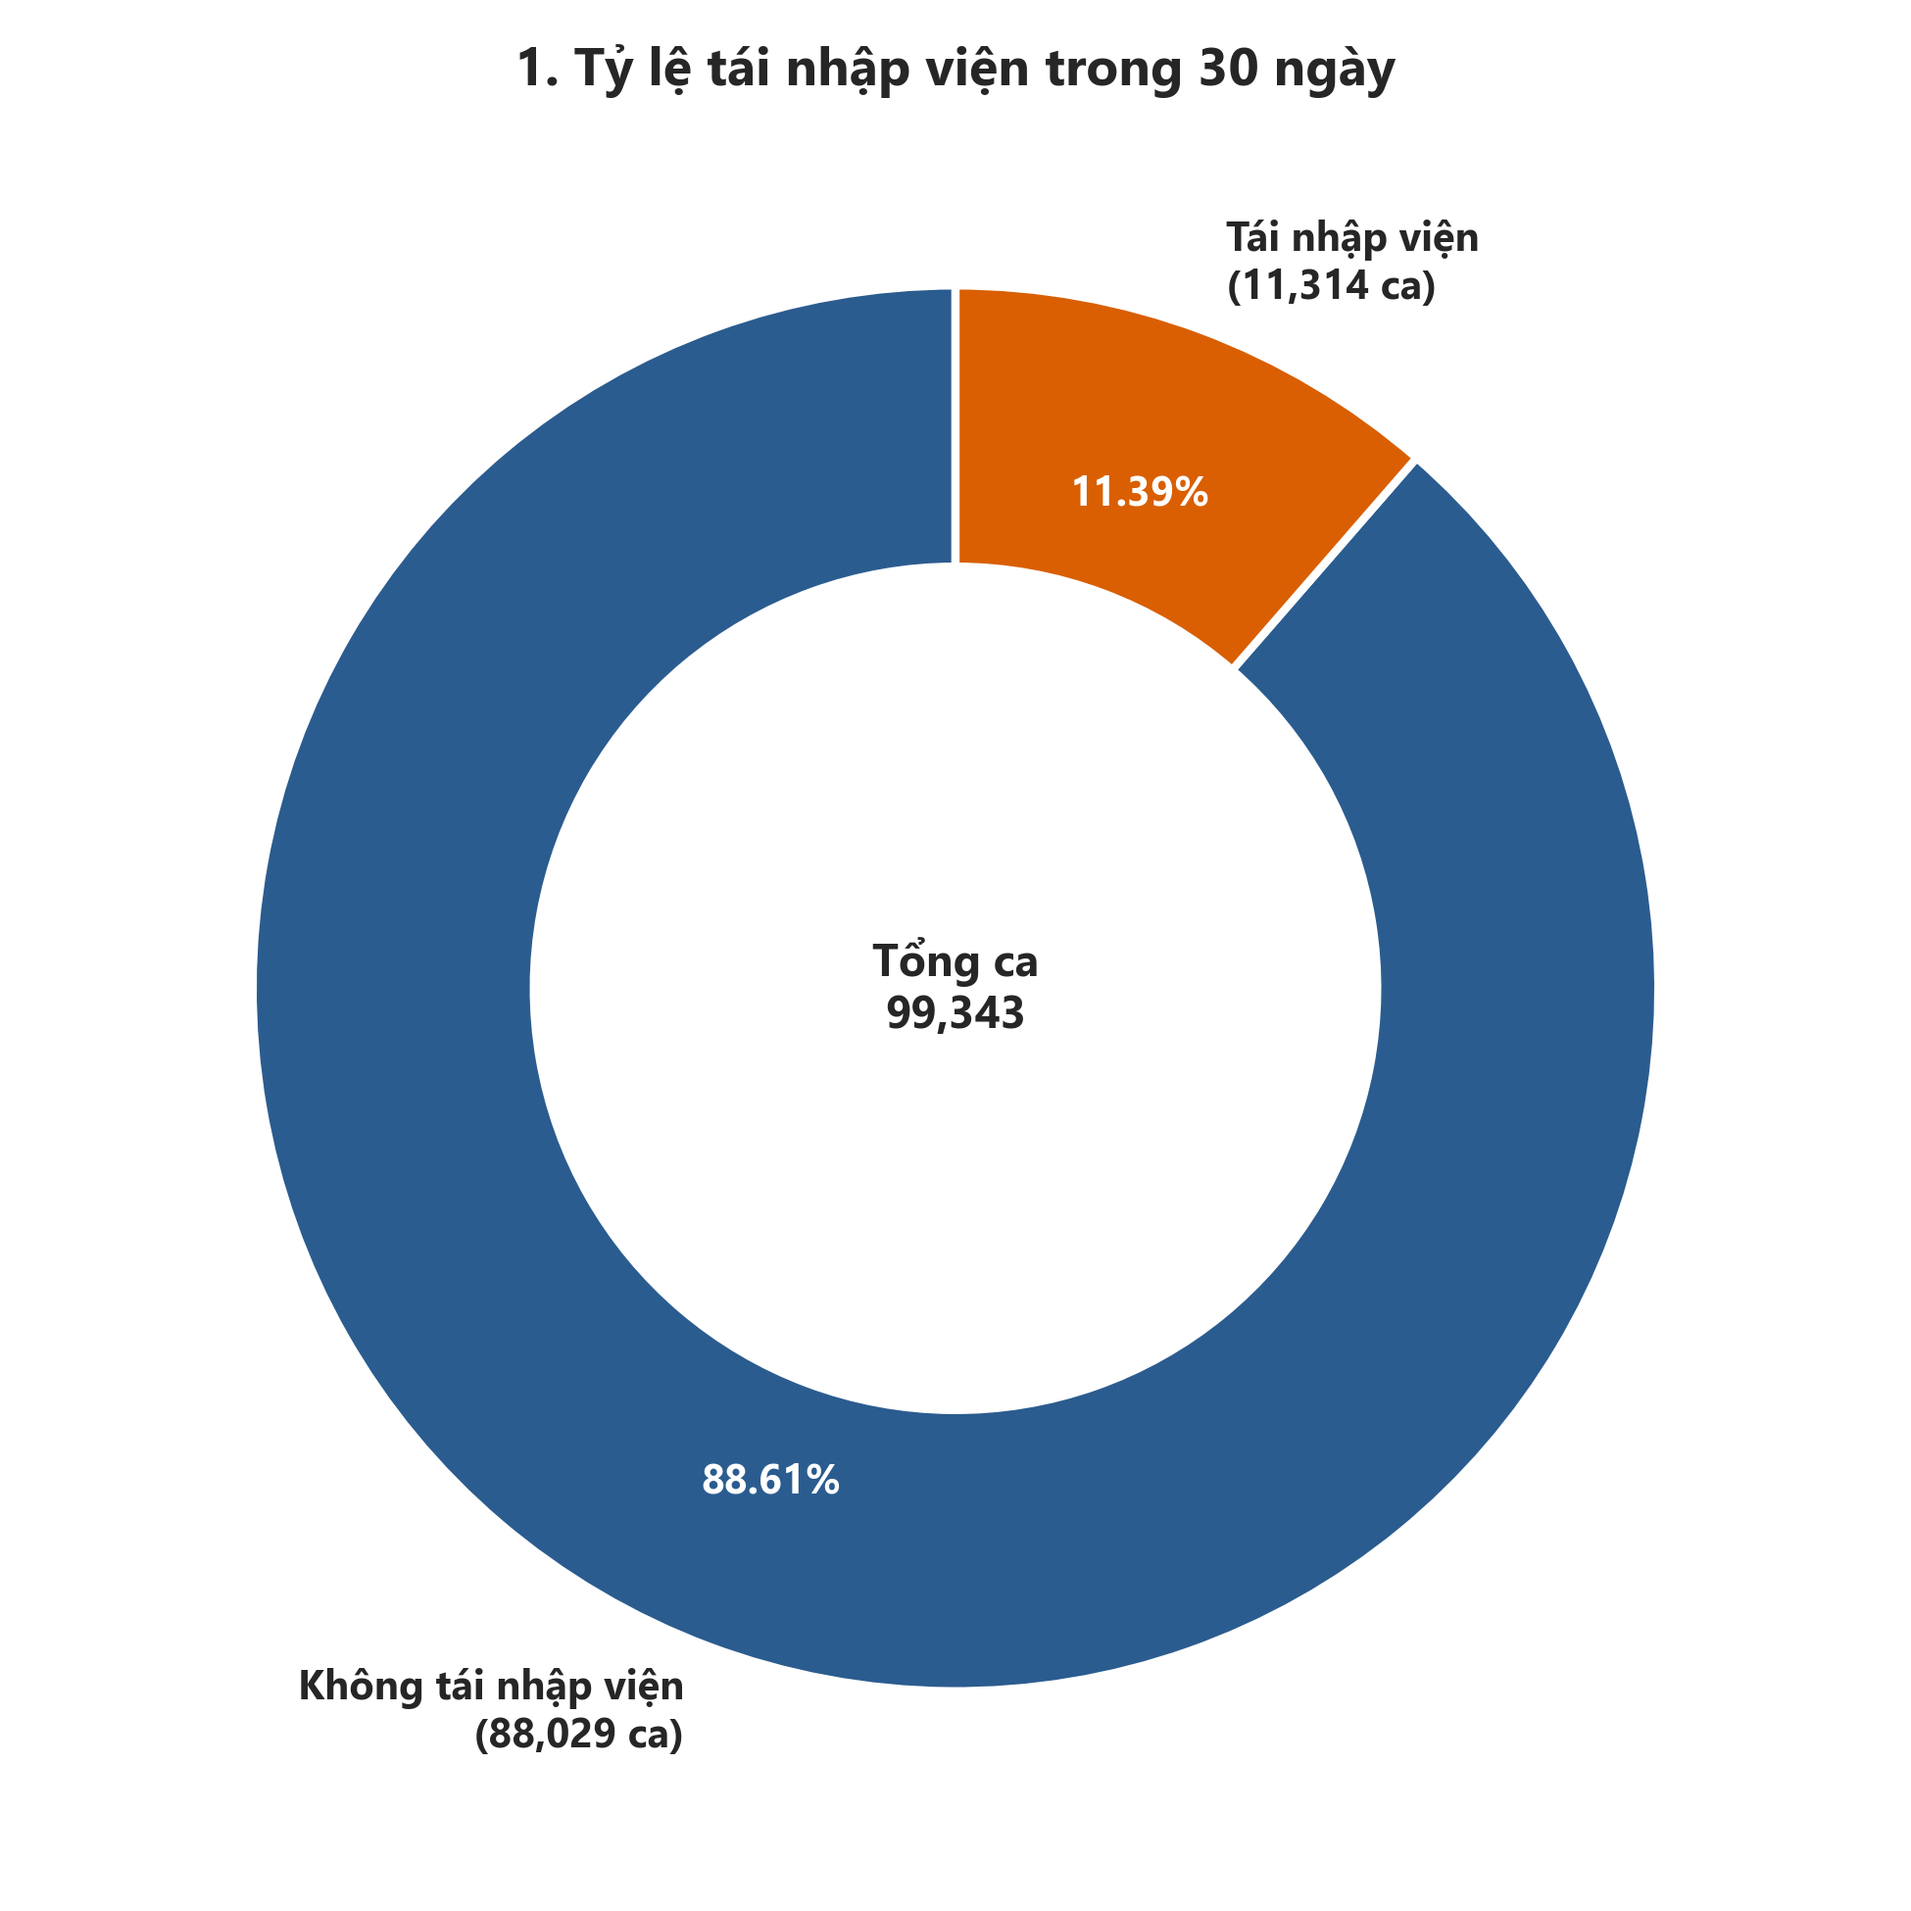
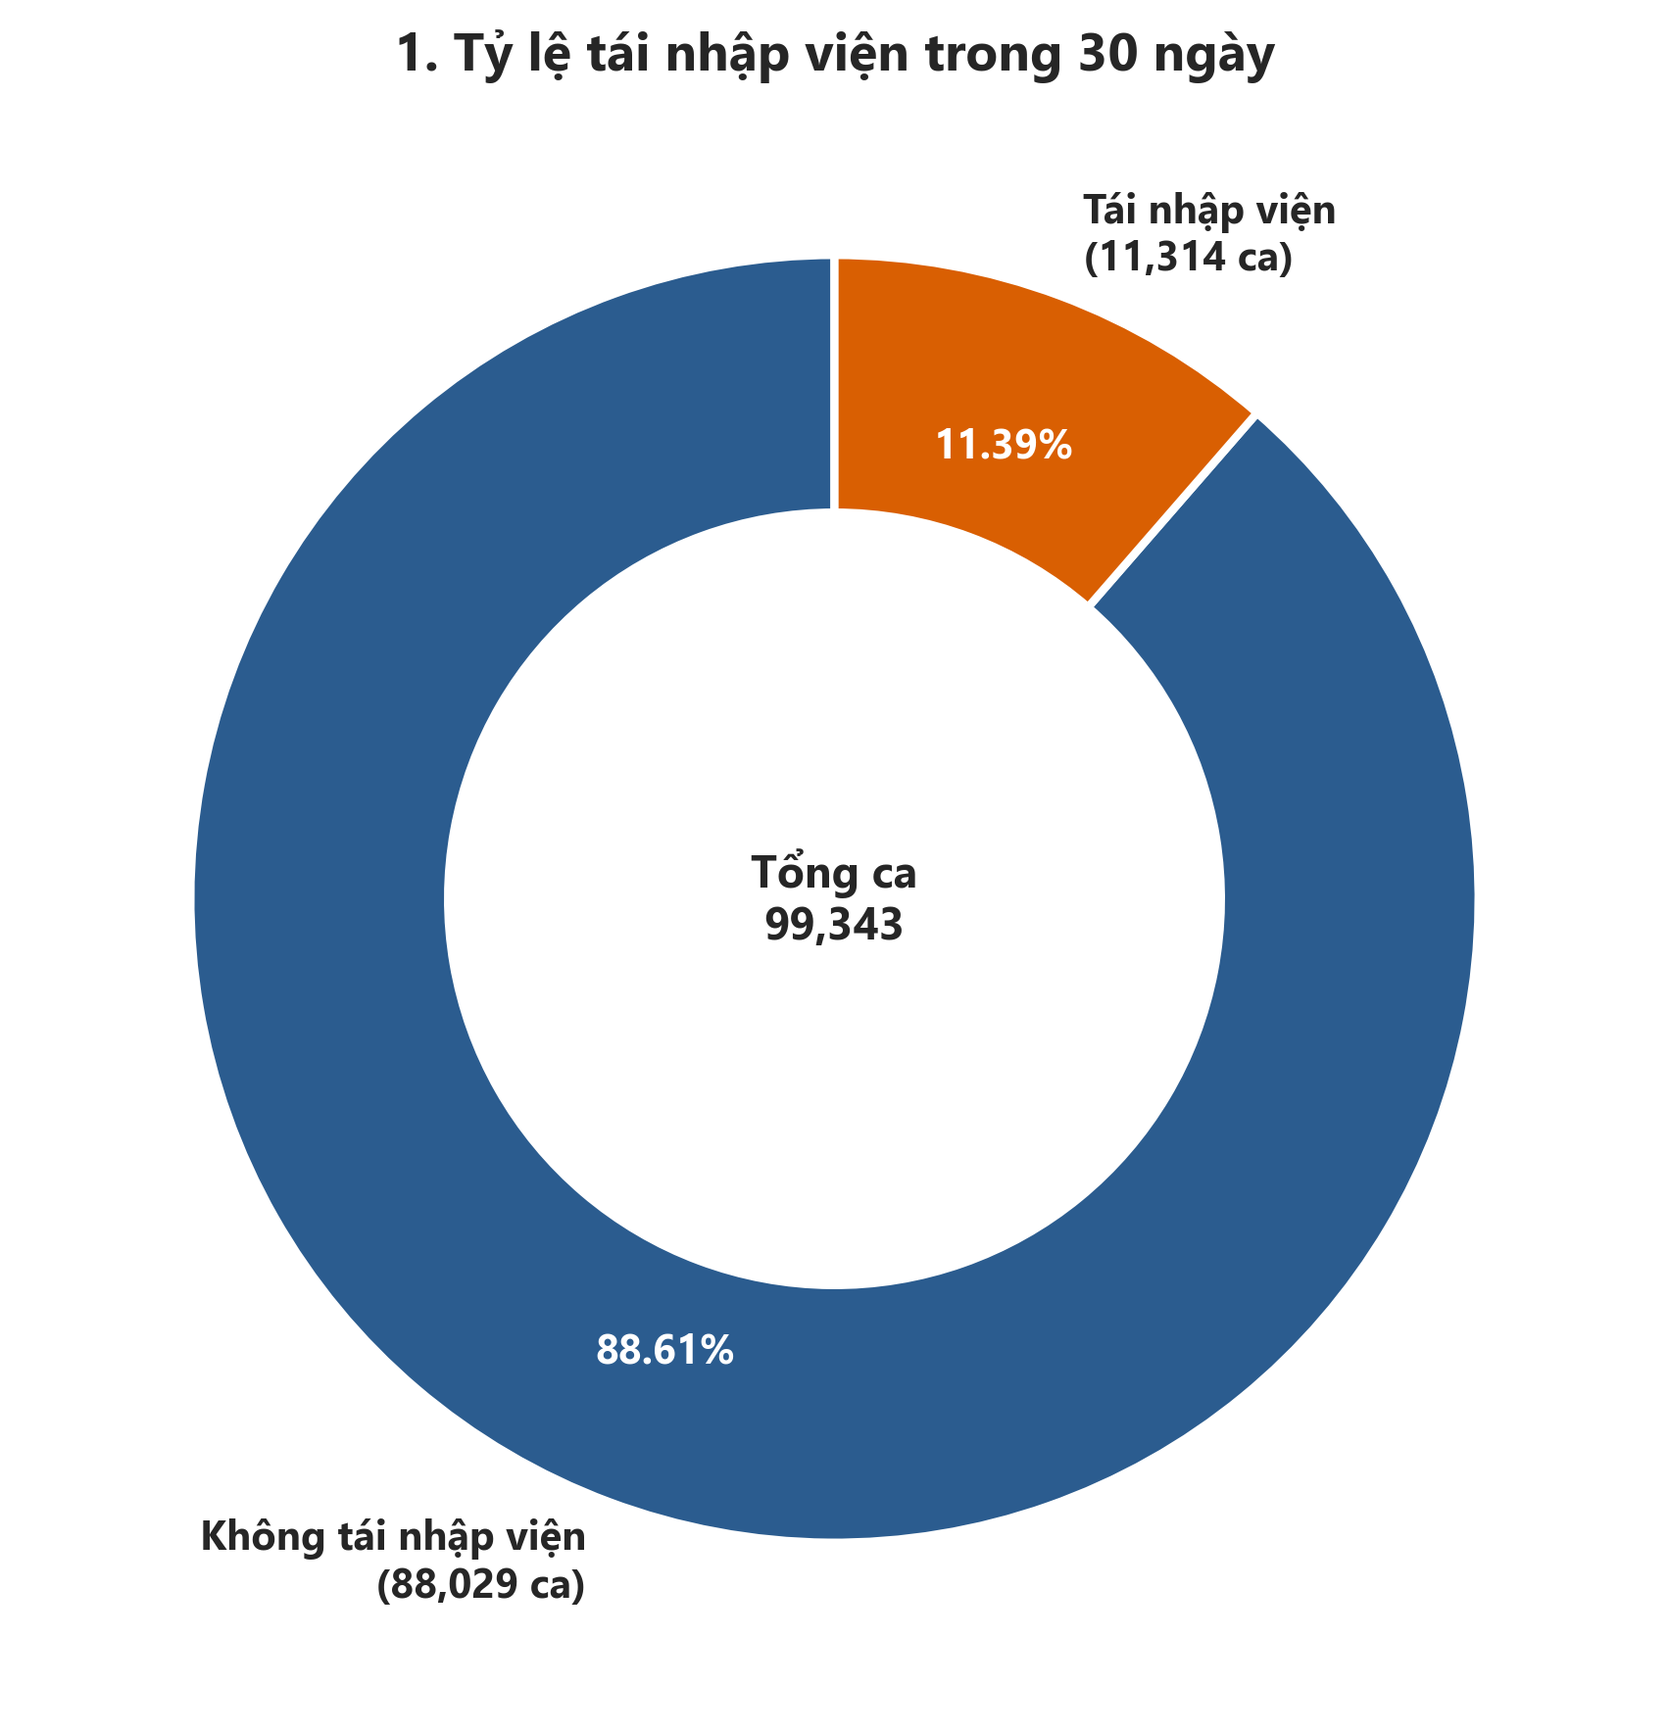
Cập nhật code và biểu đồ TV2

diff --git a/code/Analysis1/analysis_1.py b/code/Analysis1/analysis_1.py
@@ -1,221 +1,231 @@
-# Bước 2: Phân tích Thực trạng & Trực quan hóa Dữ liệu (Descriptive Analytics)
-
 from pathlib import Path
 import sys
 import matplotlib.pyplot as plt
 import pandas as pd
-import seaborn as sns
 
-# 1. Khắc phục lỗi font hiển thị trên Terminal Windows
+# Khắc phục lỗi font hiển thị trên terminal Windows
 if sys.platform == "win32":
-  sys.stdout.reconfigure(encoding="utf-8")
+    sys.stdout.reconfigure(encoding="utf-8")
 
-# 2. Thiết lập đường dẫn động chuẩn dự án
+# 1. ĐỌC DỮ LIỆU
 CURRENT_DIR = Path(__file__).resolve().parent
 BASE_DIR = CURRENT_DIR.parent.parent
 
-# Tìm file dữ liệu sạch
 DATA_PATH = BASE_DIR / "data" / "processed" / "diabetic_cleaned_data.csv"
+
+# Nếu tên file thực tế khác thì thử tên dự phòng
 if not DATA_PATH.exists():
-  DATA_PATH = BASE_DIR / "data" / "processed" / "diabetes_cleaned_data.csv"
+    DATA_PATH = BASE_DIR / "data" / "processed" / "diabetes_cleaned_data.csv"
 
 FIGURES_DIR = BASE_DIR / "figures"
 FIGURES_DIR.mkdir(parents=True, exist_ok=True)
 
-# 3. Đọc dữ liệu
-print("=" * 65)
 print(f"Đang đọc dữ liệu từ: {DATA_PATH}")
 df = pd.read_csv(DATA_PATH)
-print(f"Nạp dữ liệu thành công: {df.shape[0]:,} dòng, {df.shape[1]} cột.")
-print("=" * 65)
+print(f"Nạp dữ liệu thành công: {df.shape[0]:,} dòng, {df.shape[1]} cột.\n")
 
+# 2. TẠO BIẾN MỤC TIÊU VÀ KIỂM TRA
+if "target_30days" not in df.columns and "readmitted" in df.columns:
+    df["target_30days"] = (df["readmitted"] == "<30").astype(int)
 
+required_columns = ["target_30days", "time_in_hospital", "gender", "age"]
+missing_columns = [col for col in required_columns if col not in df.columns]
 
-# 4. TÍNH TOÁN & IN THÔNG TIN CƠ BẢN THEO YÊU CẦU RA TERMINAL
+if missing_columns:
+    raise ValueError(f"Không tìm thấy các cột cần thiết: {missing_columns}")
+
+# 3. THỐNG KÊ MÔ TẢ CƠ BẢN
 total_cases = len(df)
 readmit_cases = int(df["target_30days"].sum())
 non_readmit_cases = total_cases - readmit_cases
-pct_readmit = (readmit_cases / total_cases) * 100
-pct_non_readmit = (non_readmit_cases / total_cases) * 100
 
-print("\n--- 1. THỰC TRẠNG TÁI NHẬP VIỆN (<= 30 NGÀY) ---")
-print(f"Tổng số ca quan sát: {total_cases:,} ca")
-print(
-    f"- Tái nhập viện <= 30 ngày:  {readmit_cases:,} ca ({pct_readmit:.2f}%)"
-)
-print(
-    f"- Không tái nhập viện:      {non_readmit_cases:,} ca"
-    f" ({pct_non_readmit:.2f}%)"
-)
+pct_readmit = readmit_cases / total_cases * 100
+pct_non_readmit = non_readmit_cases / total_cases * 100
 
-print("\n--- 2. PHÂN BỐ BỆNH NHÂN THEO CÁC BIẾN CHÍNH ---")
-
-# a. Giới tính
-print("[a] Phân bố Giới tính:")
 gender_counts = df["gender"].value_counts()
-for g, cnt in gender_counts.items():
-  print(f"    + {g:<15}: {cnt:,} ca ({cnt/total_cases*100:.2f}%)")
+largest_gender = gender_counts.idxmax()
+largest_gender_pct = (gender_counts.max() / total_cases) * 100
 
-# b. Thời gian nằm viện
 stay_mean = df["time_in_hospital"].mean()
 stay_median = df["time_in_hospital"].median()
-stay_std = df["time_in_hospital"].std()
-print(
-    f"[b] Thời gian nằm viện (ngày): Trung bình = {stay_mean:.2f} | Trung vị = {stay_median:.0f} | Độ lệch = {stay_std:.2f}"
-)
+stay_mode = df["time_in_hospital"].mode()[0]
+stay_mode_count = (df["time_in_hospital"] == stay_mode).sum()
 
-# c. Số lượng thuốc
-med_mean = df["num_medications"].mean()
-med_median = df["num_medications"].median()
-print(
-    f"[c] Số lượng thuốc kê đơn:   Trung bình = {med_mean:.2f} | Trung vị = {med_median:.0f} loại"
-)
+print("THỰC TRẠNG TÁI NHẬP VIỆN TRONG 30 NGÀY")
+print(f"Tổng số ca quan sát: {total_cases:,} ca")
+print(f"- Tái nhập viện <= 30 ngày: {readmit_cases:,} ca ({pct_readmit:.2f}%)")
+print(f"- Không tái nhập viện <= 30 ngày: {non_readmit_cases:,} ca ({pct_non_readmit:.2f}%)")
 
-# d. Số lần nhập viện trước đó
-if "number_inpatient" in df.columns:
-  inp_mean = df["number_inpatient"].mean()
-  inp_zero = (df["number_inpatient"] == 0).sum()
-  pct_zero = inp_zero / total_cases * 100
+print("\nPHÂN BỐ THEO GIỚI TÍNH:")
+for gender, count in gender_counts.items():
+    percentage = count / total_cases * 100
+    print(f"- {gender}: {count:,} ca ({percentage:.2f}%)")
 
-  print(
-    f"[d] Số lần nhập viện trước: Trung bình = {inp_mean:.2f} lần "
-    f"({pct_zero:.1f}% chưa từng nhập viện)"
-    )
+print("\nTHỜI GIAN NẰM VIỆN:")
+print(f"- Trung bình: {stay_mean:.2f} ngày")
+print(f"- Trung vị: {stay_median:.0f} ngày")
 
-# e. Độ tuổi
-print("[e] Phân bố Nhóm tuổi (Top 3 nhóm cao nhất):")
-age_dist = df["age"].value_counts(normalize=True) * 100
-for a, pct in age_dist.head(3).items():
-  print(f"    + Nhóm {a:<10}: {pct:.2f}%")
-print("=" * 65)
-
-# 5. CẤU HÌNH BIỂU ĐỒ
+# 4. CẤU HÌNH BIỂU ĐỒ
 plt.style.use("seaborn-v0_8-whitegrid")
 plt.rcParams["font.sans-serif"] = ["Segoe UI", "Arial", "DejaVu Sans"]
 plt.rcParams["axes.unicode_minus"] = False
 
-PRIMARY_COLOR = "#2b5c8f"
-HIGHLIGHT_COLOR = "#d95f02"
-
-# HÌNH 1: DONUT CHART (Hiển thị số ca cụ thể từng trường hợp)
-plt.figure(figsize=(6.5, 6.5))
-sizes = [non_readmit_cases, readmit_cases]
-# Nhãn hiển thị cả tên và số ca cụ thể
+# CHART 1 - DONUT CHART (TỶ LỆ TÁI NHẬP VIỆN TRONG 30 NGÀY)
+plt.figure(figsize=(6.5, 6))
 chart1_labels = [
     f"Không tái nhập viện\n({non_readmit_cases:,} ca)",
-    f"Tái nhập viện\n({readmit_cases:,} ca)",
+    f"Tái nhập viện\n({readmit_cases:,} ca)"
 ]
+sizes = [non_readmit_cases, readmit_cases]
 
 wedges, texts, autotexts = plt.pie(
     sizes,
     labels=chart1_labels,
     autopct="%1.2f%%",
     startangle=90,
-    colors=[PRIMARY_COLOR, HIGHLIGHT_COLOR],
+    colors=["#2b5c8f", "#d95f02"],
     pctdistance=0.75,
     wedgeprops=dict(width=0.4, edgecolor="white", linewidth=2),
-    textprops=dict(fontweight="bold", fontsize=10),
+    textprops=dict(fontweight="bold", fontsize=10)
 )
+
 autotexts[0].set_color("white")
 autotexts[1].set_color("white")
 
 plt.title("1. Tỷ lệ tái nhập viện trong 30 ngày", fontweight="bold", fontsize=13)
-plt.text(
-    0,
-    0,
-    f"Tổng ca\n{total_cases:,}",
-    ha="center",
-    va="center",
-    fontsize=11,
-    fontweight="bold",
-)
+plt.text(0, 0, f"Tổng ca\n{total_cases:,}", ha="center", va="center", fontsize=11, fontweight="bold")
 plt.tight_layout()
-plt.savefig(FIGURES_DIR / "chart1_readmission_donut.png", dpi=300)
+plt.savefig(FIGURES_DIR / "chart1_readmission_donut.png", dpi=300, bbox_inches="tight")
 plt.close()
 
-# HÌNH 2: HISTOGRAM (Có cả Trung bình và Trung vị)
-plt.figure(figsize=(7.5, 5))
-sns.histplot(
+print("\nINSIGHT BIỂU ĐỒ 1")
+print(f"Tỷ lệ tái nhập viện trong 30 ngày là {pct_readmit:.2f}%, trong khi {pct_non_readmit:.2f}% bệnh nhân không tái nhập viện.")
+print(f"Điều này cho thấy cứ 100 ca quan sát có khoảng {pct_readmit:.0f} ca tái nhập viện trong vòng 30 ngày.")
+
+# CHART 2 - HISTOGRAM (PHÂN BỐ THỜI GIAN NẰM VIỆN)
+plt.figure(figsize=(8.5, 5))
+plt.hist(
     df["time_in_hospital"],
-    bins=14,
-    discrete=True,
-    color=PRIMARY_COLOR,
+    bins=range(int(df["time_in_hospital"].min()), int(df["time_in_hospital"].max()) + 2),
     edgecolor="black",
-    alpha=0.85,
+    color="#2b5c8f",
+    alpha=0.85
 )
 
-plt.axvline(
-    stay_median,
-    color=HIGHLIGHT_COLOR,
-    linestyle="--",
-    linewidth=2,
-    label=f"Trung vị: {stay_median:.0f} ngày",
-)
-plt.axvline(
-    stay_mean,
-    color="crimson",
-    linestyle="-.",
-    linewidth=2,
-    label=f"Trung bình: {stay_mean:.2f} ngày",
-)
-
-plt.title(
-    "2. Phân bố thời gian nằm viện của bệnh nhân",
-    fontweight="bold",
-    fontsize=13,
-)
-plt.xlabel("Số ngày nằm viện (ngày)", fontsize=11)
+plt.title("2. Phân bố thời gian nằm viện của bệnh nhân", fontweight="bold", fontsize=13)
+plt.xlabel("Thời gian nằm viện (ngày)", fontsize=11)
 plt.ylabel("Số lượng bệnh nhân (ca)", fontsize=11)
-plt.legend(loc="upper right", frameon=True)
+plt.xticks(range(int(df["time_in_hospital"].min()), int(df["time_in_hospital"].max()) + 1))
 plt.tight_layout()
-plt.savefig(FIGURES_DIR / "chart2_time_in_hospital_hist.png", dpi=300)
+plt.savefig(FIGURES_DIR / "chart2_time_in_hospital_hist.png", dpi=300, bbox_inches="tight")
 plt.close()
 
-# HÌNH 3: LINE CHART 
-plt.figure(figsize=(8, 5))
+print("\nINSIGHT BIỂU ĐỒ 2")
+print(f"Thời gian nằm viện trung bình là {stay_mean:.2f} ngày và trung vị là {stay_median:.0f} ngày.")
+print(f"Thời gian nằm viện xuất hiện nhiều nhất là {stay_mode} ngày, với {stay_mode_count:,} bệnh nhân.")
+
+# CHART 3 - LOLLIPOP CHART (TỶ LỆ TÁI NHẬP VIỆN THEO NHÓM TUỔI)
+plt.figure(figsize=(10, 5.5))
+
 age_order = [
-    "[0-10)",
-    "[10-20)",
-    "[20-30)",
-    "[30-40)",
-    "[40-50)",
-    "[50-60)",
-    "[60-70)",
-    "[70-80)",
-    "[80-90)",
-    "[90-100)",
+    "[0-10)", "[10-20)", "[20-30)", "[30-40)", "[40-50)", 
+    "[50-60)", "[60-70)", "[70-80)", "[80-90)", "[90-100)"
 ]
-existing_ages = [a for a in age_order if a in df["age"].values]
-age_rate = (
-    df.groupby("age")["target_30days"].mean().reindex(existing_ages) * 100
+existing_ages = [age for age in age_order if age in df["age"].values]
+age_readmit_rate = (df.groupby("age")["target_30days"].mean().reindex(existing_ages) * 100).fillna(0)
+
+# Lấy giá trị x và y
+x_labels = age_readmit_rate.index.astype(str)
+y_values = age_readmit_rate.values
+
+# 1. Vẽ thân kẹo (đường thẳng đứng)
+plt.vlines(
+    x=x_labels, 
+    ymin=0, 
+    ymax=y_values, 
+    color="#2b5c8f", 
+    linewidth=3.5, 
+    alpha=0.8
 )
 
+# 2. Vẽ đỉnh kẹo (chấm tròn)
 plt.plot(
-    age_rate.index,
-    age_rate.values,
-    marker="o",
-    color=HIGHLIGHT_COLOR,
-    linewidth=2.5,
-    markersize=7,
+    x_labels, 
+    y_values, 
+    "o", 
+    markersize=12, 
+    color="#d95f02"
 )
 
-# Hiển thị nhãn giá trị và tự động căn trục y tránh bị cắt đỉnh
-max_y_val = age_rate.max()
-plt.ylim(0, max_y_val + 2.5)
-
-for i, val in enumerate(age_rate.values):
-  plt.text(
-      i, val + 0.35, f"{val:.1f}%", ha="center", fontsize=9, fontweight="bold"
-  )
-
-plt.title(
-    "3. Tỷ lệ tái nhập viện theo nhóm tuổi", fontweight="bold", fontsize=13
-)
+plt.title("3. Tỷ lệ tái nhập viện trong 30 ngày theo nhóm tuổi (Lollipop Chart)", fontsize=13, fontweight="bold")
 plt.xlabel("Nhóm tuổi", fontsize=11)
 plt.ylabel("Tỷ lệ tái nhập viện (%)", fontsize=11)
-plt.xticks(rotation=35)
+plt.xticks(rotation=45, ha="right")
+
+# Ghi chú % lên đầu mỗi kẹo mút
+for i, yval in enumerate(y_values):
+    plt.text(
+        i, 
+        yval + 0.5, 
+        f"{yval:.1f}%", 
+        ha="center", 
+        va="bottom", 
+        fontsize=9, 
+        fontweight="bold"
+    )
+
+plt.ylim(0, age_readmit_rate.max() + 3)
 plt.tight_layout()
-plt.savefig(FIGURES_DIR / "chart3_age_trend_line.png", dpi=300)
+plt.savefig(FIGURES_DIR / "chart3_readmission_by_age_lollipop.png", dpi=300, bbox_inches="tight")
 plt.close()
 
-print(f"Hoàn thành! Đã xuất đủ 3 biểu đồ vào thư mục: {FIGURES_DIR}")
+print("\nINSIGHT BIỂU ĐỒ 3")
+highest_age_group = age_readmit_rate.idxmax()
+highest_age_rate = age_readmit_rate.max()
+print(f"Nhóm tuổi có tỷ lệ tái nhập viện cao nhất là {highest_age_group} với tỷ lệ lên tới {highest_age_rate:.1f}%.")
+print("Dữ liệu (Lollipop Chart) cho thấy độ tuổi càng cao có xu hướng ảnh hưởng trực tiếp đến khả năng tái nhập viện.")
+
+# CHART 4 - BAR CHART (TỶ LỆ TÁI NHẬP VIỆN THEO SỐ LẦN NHẬP VIỆN TRƯỚC ĐÓ)
+plt.figure(figsize=(8.5, 5.5))
+if "number_inpatient" in df.columns:
+    df["inpatient_group"] = df["number_inpatient"].apply(lambda x: ">= 4" if x >= 4 else str(x))
+    inp_order = ["0", "1", "2", "3", ">= 4"]
+    existing_inp = [i for i in inp_order if i in df["inpatient_group"].values]
+    
+    inp_readmit_rate = (df.groupby("inpatient_group")["target_30days"].mean().reindex(existing_inp) * 100).fillna(0)
+
+    bars_inp = plt.bar(
+        inp_readmit_rate.index,
+        inp_readmit_rate.values,
+        edgecolor="black",
+        color="#d95f02"
+    )
+
+    plt.title("4. Tỷ lệ tái nhập viện theo số lần nhập viện trước đó", fontsize=13, fontweight="bold")
+    plt.xlabel("Số lần nhập viện trước đó", fontsize=11)
+    plt.ylabel("Tỷ lệ tái nhập viện (%)", fontsize=11)
+
+    for bar in bars_inp:
+        yval = bar.get_height()
+        plt.text(bar.get_x() + bar.get_width() / 2, yval + 0.5, f"{yval:.1f}%", ha="center", va="bottom", fontsize=9, fontweight="bold")
+
+    plt.ylim(0, inp_readmit_rate.max() + 5)
+    plt.tight_layout()
+    plt.savefig(FIGURES_DIR / "chart4_readmission_by_inpatient.png", dpi=300, bbox_inches="tight")
+    plt.close()
+
+    print("\nINSIGHT BIỂU ĐỒ 4")
+    highest_inp_group = inp_readmit_rate.idxmax()
+    highest_inp_rate = inp_readmit_rate.max()
+    print(f"Bệnh nhân từng nhập viện {highest_inp_group} lần trở lên có nguy cơ tái nhập viện cao nhất ({highest_inp_rate:.1f}%).")
+    print("Có thể thấy rõ xu hướng tỷ lệ thuận: số lần nhập viện tuyến trước càng nhiều, rủi ro tái nhập viện sớm càng tăng mạnh.")
+
+# 5. TỔNG KẾT INSIGHT - TV2
+print("\nTỔNG KẾT PHÂN TÍCH THỰC TRẠNG - TV2")
+print(f"- Tỷ lệ tái nhập viện chung (<= 30 ngày): {pct_readmit:.2f}%.")
+print(f"- Thời gian nằm viện: Trung bình {stay_mean:.2f} ngày; Phổ biến nhất là {stay_mode} ngày.")
+print(f"- Nhóm giới tính chiếm đa số: {largest_gender} ({largest_gender_pct:.2f}%).")
+print(f"- Độ tuổi rủi ro cao nhất: Nhóm {highest_age_group} có tỷ lệ tái nhập viện lên tới {highest_age_rate:.1f}%.")
+if "number_inpatient" in df.columns:
+    print(f"- Tiền sử nhập viện: Bệnh nhân từng nhập viện {highest_inp_group} lần trở lên có tỷ lệ tái phát cực cao ({highest_inp_rate:.1f}%).")
+
